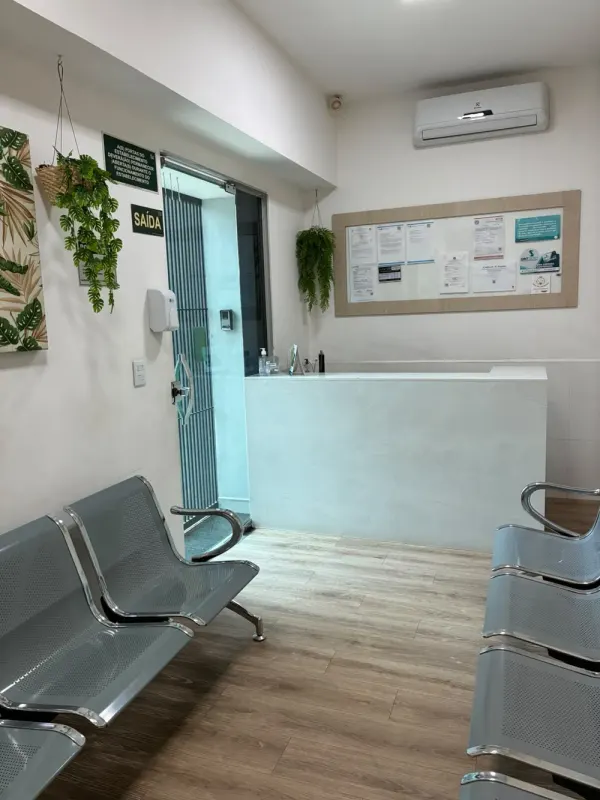
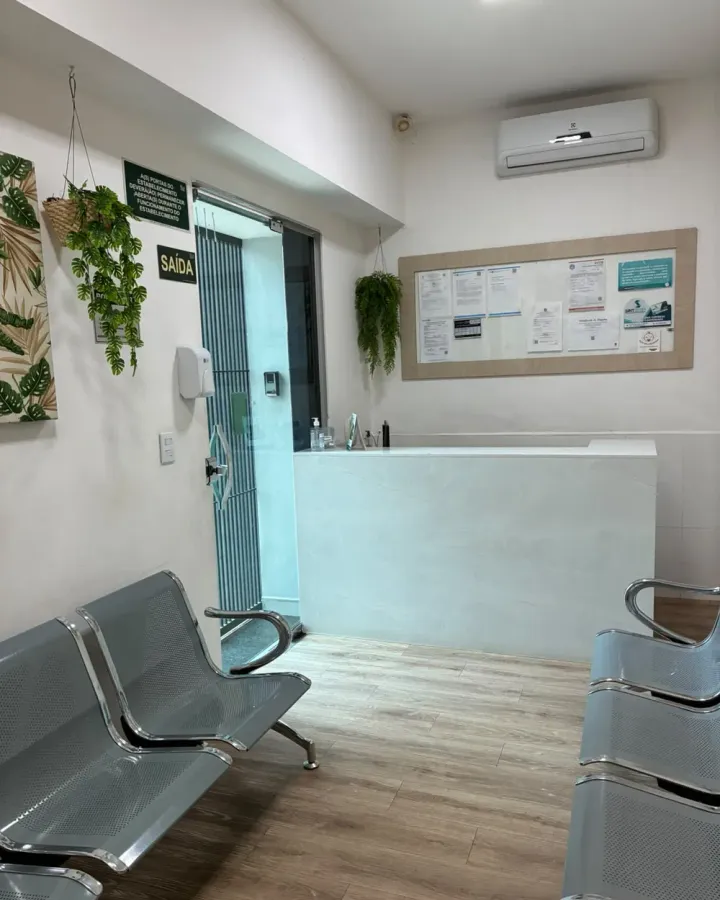
Links: carrossel do espaço

diff --git a/links/index.html b/links/index.html
@@ -209,13 +209,32 @@ button{font:inherit;color:inherit}
 .galeria.arrastando{scroll-snap-type:none;cursor:grabbing}
 @media (min-width:620px){.galeria{margin:0 -20px;padding:2px 20px 8px;scroll-padding-inline:20px}}
 
-/* ---------- o espaco: mosaico, cada foto abre grande ---------- */
-.espaco{display:grid;grid-template-columns:repeat(2,1fr);grid-auto-rows:112px;gap:8px;list-style:none;margin:0;padding:0}
-.espaco li:nth-child(1){grid-row:span 2}
-.espaco li:nth-child(4){grid-column:span 2}
-.foto{display:block;width:100%;height:100%;padding:0;border:0;border-radius:14px;overflow:hidden;background:var(--areia);cursor:zoom-in}
-.foto img{width:100%;height:100%;object-fit:cover;transition:scale .8s var(--suave)}
+/* ---------- o espaco: carrossel, cada foto abre grande ---------- */
+.carrossel{position:relative}
+.carrossel__trilho{display:flex;gap:10px;overflow-x:auto;scroll-snap-type:x mandatory;scroll-padding-inline:16px;margin:0 -16px;padding:2px 16px 4px;scrollbar-width:none;list-style:none}
+.carrossel__trilho::-webkit-scrollbar{display:none}
+.carrossel__trilho li{flex:0 0 84%;scroll-snap-align:start}
+@media (min-width:620px){.carrossel__trilho{margin:0 -20px;padding:2px 20px 4px;scroll-padding-inline:20px}}
+.foto{position:relative;isolation:isolate;display:block;width:100%;aspect-ratio:4/5;padding:0;border:0;border-radius:20px;overflow:hidden;background:var(--areia);cursor:zoom-in;box-shadow:0 10px 24px rgba(30,63,59,.14);-webkit-user-drag:none;user-select:none}
+.foto img{width:100%;height:100%;object-fit:cover;-webkit-user-drag:none;transition:scale .8s var(--suave)}
+.foto::after{content:"";position:absolute;inset:0;background:linear-gradient(180deg,rgba(22,48,45,0) 62%,rgba(22,48,45,.7));pointer-events:none}
 .foto:hover img{scale:1.04}
+.foto__leg{position:absolute;left:1rem;bottom:.85rem;z-index:1;color:#fff;font:600 1.08rem/1.2 var(--serif);text-align:left}
+.carrossel__pontos{display:flex;justify-content:center;gap:6px;margin-top:12px}
+.carrossel__pontos i{width:7px;height:7px;border-radius:999px;background:rgba(45,90,85,.22);transition:width .35s var(--suave),background .35s ease}
+.carrossel__pontos i.on{width:22px;background:var(--petroleo)}
+/* setas so pra mouse: no celular o dedo arrasta */
+.carrossel__seta{display:none}
+@media (hover:hover) and (pointer:fine){
+  .carrossel__trilho{cursor:grab}
+  .carrossel__seta{position:absolute;top:calc(50% - 38px);z-index:2;display:grid;place-items:center;width:42px;height:42px;border-radius:50%;border:0;background:rgba(252,250,246,.92);color:var(--petroleo);box-shadow:0 8px 20px rgba(30,63,59,.2);cursor:pointer;transition:opacity .25s ease,transform .2s ease}
+  .carrossel__seta:hover{transform:scale(1.06)}
+  .carrossel__seta[disabled]{opacity:0;pointer-events:none}
+  .carrossel__seta--ant{left:6px}
+  .carrossel__seta--ant .i{transform:rotate(180deg)}
+  .carrossel__seta--prox{right:6px}
+}
+.carrossel__trilho.arrastando{scroll-snap-type:none;cursor:grabbing}
 .visor{width:min(94vw,560px);max-width:none;max-height:92vh;padding:0;border:0;border-radius:18px;background:transparent;overflow:visible}
 .visor::backdrop{background:rgba(22,48,45,.86)}
 .visor img{width:100%;max-height:82vh;object-fit:contain;border-radius:18px}
@@ -354,24 +373,23 @@ button{font:inherit;color:inherit}
     <li><a class="card" href="../especialidades/nutricao/"><img src="../assets/img/links/esp-card-nutricao.webp" width="480" height="600" loading="lazy" decoding="async" alt="">Nutrição</a></li>
   </ul>
 
-  <h2 class="titulo">Programas</h2>
-  <!-- o cartao do IPD usa a mesma ilustracao do site (turma gerada, alt "Ilustracao"), aprovada por ele em 02/11 -->
-  <ul class="galeria" aria-label="Programas da clínica: cada um abre a página dele no site">
-    <li><a class="card" href="../programas/treinamento-caa/"><img src="../assets/img/links/esp-card-caa.webp" width="480" height="600" loading="lazy" decoding="async" alt="">Treinamento de CAA</a></li>
-    <li><a class="card" href="../programas/ipd/"><img src="../assets/img/links/esp-card-ipd.webp" width="480" height="600" loading="lazy" decoding="async" alt="Ilustração: crianças em atividade de grupo">IPD</a></li>
-    <li><a class="card" href="../programas/envelhecer-em-movimento/"><img src="../assets/img/links/esp-card-envelhecer.webp" width="480" height="600" loading="lazy" decoding="async" alt="">Envelhecer em Movimento</a></li>
-  </ul>
-
   <h2 class="titulo">O espaço</h2>
-  <!-- fotos reais da Carine (02/11/2026). Toque abre a foto grande -->
-  <ul class="espaco">
-    <li><button class="foto" type="button" data-grande="../assets/img/esp-recepcao.webp"><img src="../assets/img/links/local-recepcao.webp" width="600" height="800" loading="lazy" decoding="async" alt="Recepção da clínica"></button></li>
-    <li><button class="foto" type="button" data-grande="../assets/img/esp-espera.webp"><img src="../assets/img/links/local-espera.webp" width="600" height="800" loading="lazy" decoding="async" alt="Sala de espera"></button></li>
-    <li><button class="foto" type="button" data-grande="../assets/img/esp-infantil.webp"><img src="../assets/img/links/local-infantil.webp" width="600" height="800" loading="lazy" decoding="async" alt="Sala de atendimento infantil, com brinquedos"></button></li>
-    <li><button class="foto" type="button" data-grande="../assets/img/esp-consultorio.webp"><img src="../assets/img/links/local-consultorio.webp" width="900" height="560" loading="lazy" decoding="async" alt="Consultório"></button></li>
-    <li><button class="foto" type="button" data-grande="../assets/img/esp-fono.webp"><img src="../assets/img/links/local-fono.webp" width="600" height="600" loading="lazy" decoding="async" alt="Sala de fonoaudiologia"></button></li>
-    <li><button class="foto" type="button" data-grande="../assets/img/esp-fisio.webp"><img src="../assets/img/links/local-fisio.webp" width="600" height="600" loading="lazy" decoding="async" alt="Sala de fisioterapia"></button></li>
-  </ul>
+  <!-- carrossel com as fotos reais da Carine (02/11/2026). Arrasta pro lado; toque abre a foto grande -->
+  <div class="carrossel">
+    <ul class="carrossel__trilho" aria-label="Fotos do espaço da clínica">
+      <li><button class="foto" type="button" data-grande="../assets/img/esp-recepcao.webp"><img src="../assets/img/links/local-recepcao.webp" width="720" height="900" loading="lazy" decoding="async" alt="Recepção da clínica"><span class="foto__leg">Recepção</span></button></li>
+      <li><button class="foto" type="button" data-grande="../assets/img/esp-espera.webp"><img src="../assets/img/links/local-espera.webp" width="720" height="900" loading="lazy" decoding="async" alt="Sala de espera"><span class="foto__leg">Sala de espera</span></button></li>
+      <li><button class="foto" type="button" data-grande="../assets/img/esp-consultorio.webp"><img src="../assets/img/links/local-consultorio.webp" width="720" height="900" loading="lazy" decoding="async" alt="Consultório"><span class="foto__leg">Consultório</span></button></li>
+      <li><button class="foto" type="button" data-grande="../assets/img/esp-infantil.webp"><img src="../assets/img/links/local-infantil.webp" width="720" height="900" loading="lazy" decoding="async" alt="Sala de atendimento infantil, com brinquedos"><span class="foto__leg">Sala infantil</span></button></li>
+      <li><button class="foto" type="button" data-grande="../assets/img/esp-cantinho.webp"><img src="../assets/img/links/local-cantinho.webp" width="720" height="900" loading="lazy" decoding="async" alt="Cantinho das crianças, com mesinha e cadeiras"><span class="foto__leg">Cantinho das crianças</span></button></li>
+      <li><button class="foto" type="button" data-grande="../assets/img/esp-fono.webp"><img src="../assets/img/links/local-fono.webp" width="720" height="900" loading="lazy" decoding="async" alt="Sala de fonoaudiologia"><span class="foto__leg">Fonoaudiologia</span></button></li>
+      <li><button class="foto" type="button" data-grande="../assets/img/esp-atendimento.webp"><img src="../assets/img/links/local-atendimento.webp" width="720" height="900" loading="lazy" decoding="async" alt="Sala de atendimento, com poltrona e estante"><span class="foto__leg">Sala de atendimento</span></button></li>
+      <li><button class="foto" type="button" data-grande="../assets/img/esp-fisio.webp"><img src="../assets/img/links/local-fisio.webp" width="720" height="900" loading="lazy" decoding="async" alt="Sala de fisioterapia"><span class="foto__leg">Fisioterapia</span></button></li>
+    </ul>
+    <button class="carrossel__seta carrossel__seta--ant" type="button" aria-label="Foto anterior"><svg class="i" aria-hidden="true"><use href="#i-dir"/></svg></button>
+    <button class="carrossel__seta carrossel__seta--prox" type="button" aria-label="Próxima foto"><svg class="i" aria-hidden="true"><use href="#i-dir"/></svg></button>
+    <div class="carrossel__pontos" aria-hidden="true"></div>
+  </div>
 
   <h2 class="titulo">Bom saber</h2>
   <div class="info">
@@ -468,7 +486,7 @@ button{font:inherit;color:inherit}
 
   /* 3. faixas de arrastar: o dedo e o trackpad ja rolam; o mouse precisa do arraste.
      Depois de arrastar, o clique que vem junto nao abre o cartao. */
-  Array.prototype.forEach.call(document.querySelectorAll(".galeria"), function(gal){
+  Array.prototype.forEach.call(document.querySelectorAll(".galeria, .carrossel__trilho"), function(gal){
     var arr = null, arrastou = false;
     gal.addEventListener("dragstart", function(e){ e.preventDefault(); });
     gal.addEventListener("pointerdown", function(e){
@@ -501,7 +519,29 @@ button{font:inherit;color:inherit}
     gal.addEventListener("click", function(e){ if (arrastou) { e.preventDefault(); arrastou = false; } }, true);
   });
 
-  /* 4. o espaco: a foto abre grande no visor. Sem <dialog> (navegador antigo), abre a imagem */
+  /* 4. carrossel do espaco: um ponto por foto, o da foto da vez aceso, e setas pro mouse */
+  Array.prototype.forEach.call(document.querySelectorAll(".carrossel"), function(c){
+    var tr = c.querySelector(".carrossel__trilho"), fotos = tr.children, pts = c.querySelector(".carrossel__pontos");
+    var ant = c.querySelector(".carrossel__seta--ant"), prox = c.querySelector(".carrossel__seta--prox");
+    for (var k = 0; k < fotos.length; k++) pts.appendChild(document.createElement("i"));
+    var passo = function(){ return fotos[0].offsetWidth + parseFloat(getComputedStyle(tr).columnGap || 10); };
+    var atual = -1, pedido = false;
+    var marca = function(){
+      pedido = false;
+      var max = tr.scrollWidth - tr.clientWidth;
+      var n = tr.scrollLeft >= max - 4 ? fotos.length - 1 : Math.round(tr.scrollLeft / passo());
+      if (n === atual) return;
+      atual = n;
+      Array.prototype.forEach.call(pts.children, function(p, i){ p.classList.toggle("on", i === n); });
+      ant.disabled = n <= 0; prox.disabled = n >= fotos.length - 1;
+    };
+    tr.addEventListener("scroll", function(){ if (!pedido) { pedido = true; requestAnimationFrame(marca); } }, { passive: true });
+    ant.addEventListener("click", function(){ tr.scrollBy({ left: -passo(), behavior: reduzido ? "auto" : "smooth" }); });
+    prox.addEventListener("click", function(){ tr.scrollBy({ left: passo(), behavior: reduzido ? "auto" : "smooth" }); });
+    marca();
+  });
+
+  /* 5. o espaco: a foto abre grande no visor. Sem <dialog> (navegador antigo), abre a imagem */
   var visor = document.querySelector(".visor");
   Array.prototype.forEach.call(document.querySelectorAll("[data-grande]"), function(b){
     b.addEventListener("click", function(){
